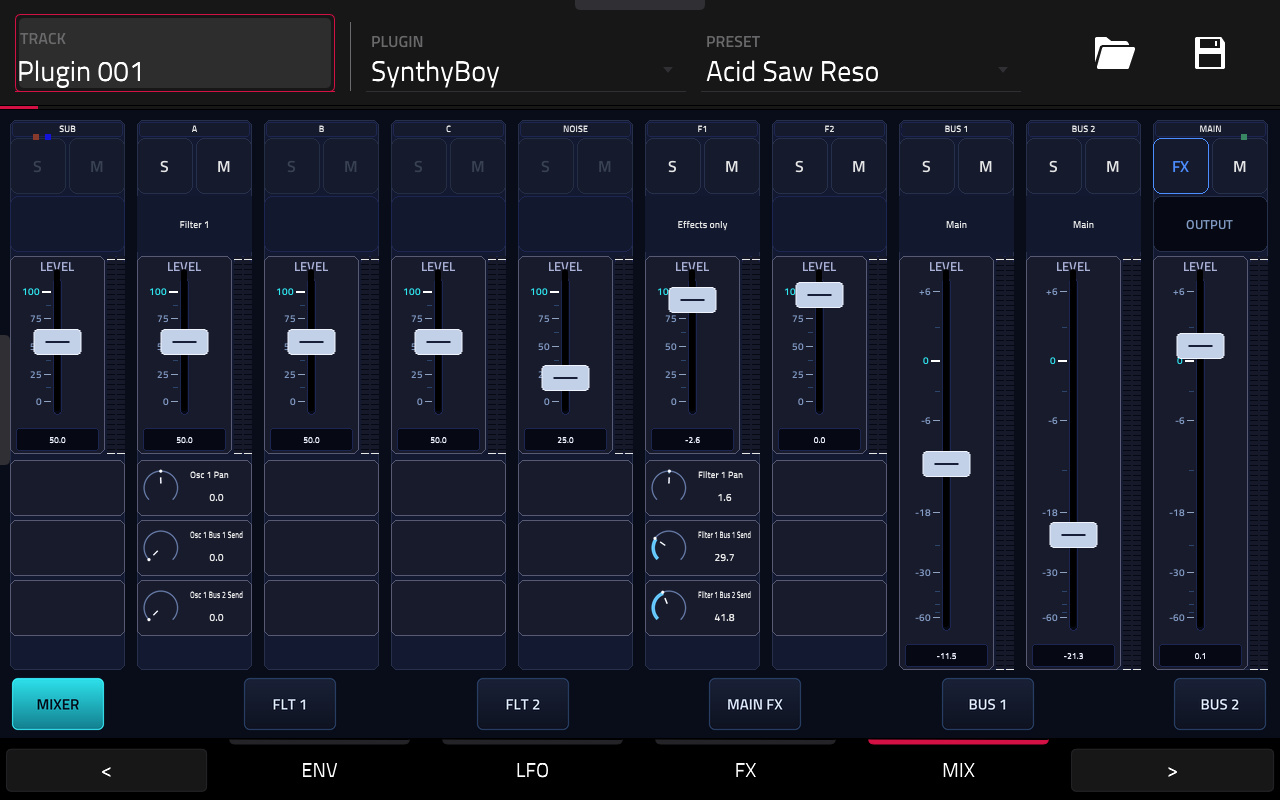
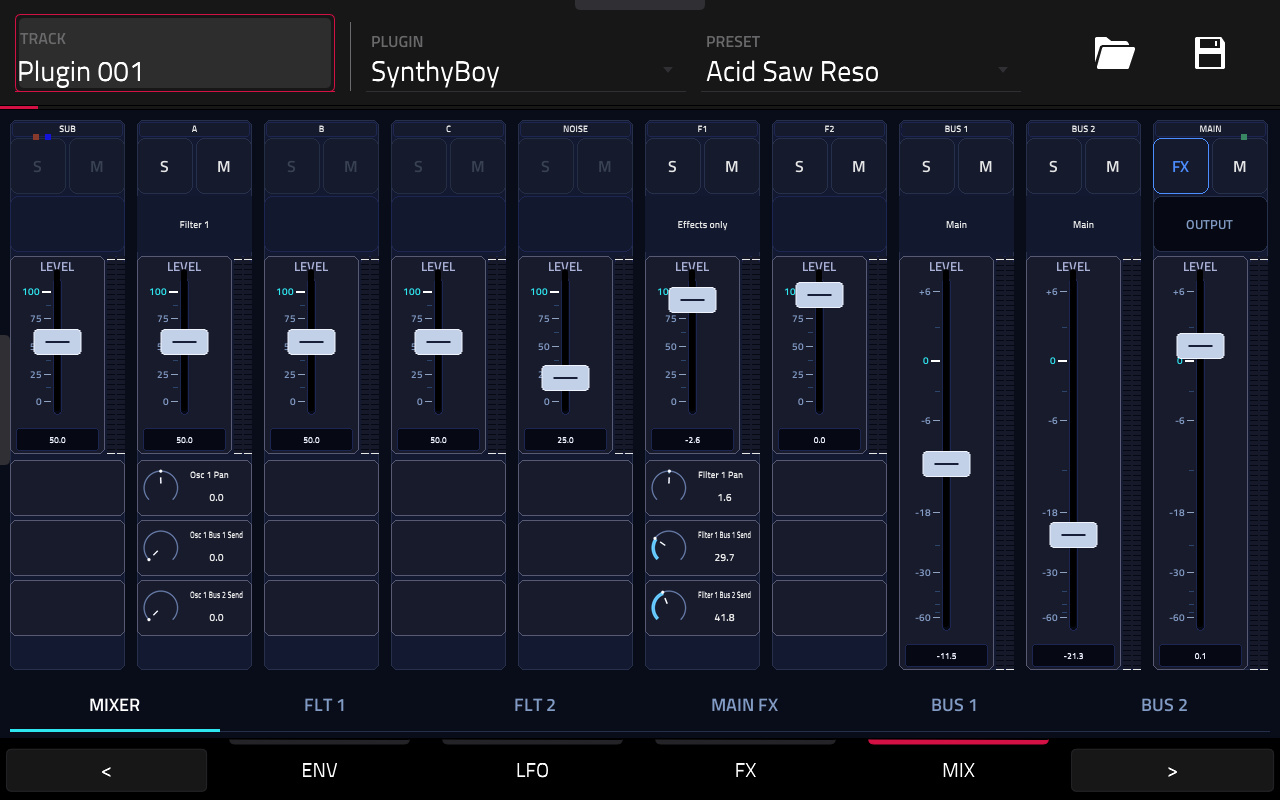
Refresh the XL Mixer photo with its tab bar

diff --git a/docs/ui-components/native-katalogus.html b/docs/ui-components/native-katalogus.html
@@ -15,7 +15,7 @@
 <section id="lfo"><h2>LFO</h2><p>MPC XL hardverfelvétel · 4fd1ab00</p><div class="pair"><figure><a href="../screens/lfo.jpg?v=6b0234b26ec8"><img src="../screens/lfo.jpg?v=6b0234b26ec8" alt="LFO · aktuális előnézet"></a><figcaption>LFO · aktuális előnézet</figcaption></figure></div></section>
 <section id="rnd"><h2>RND</h2><p>Fejlesztési előnézet · offline render, nem hardveres felvétel</p><div class="pair"><figure><a href="../screens/rnd.jpg?v=b52bc095e2c8"><img src="../screens/rnd.jpg?v=b52bc095e2c8" alt="RND · aktuális előnézet"></a><figcaption>RND · aktuális előnézet</figcaption></figure></div></section>
 <section id="fx"><h2>FX</h2><p>MPC XL hardverfelvétel · 4fd1ab00</p><div class="pair"><figure><a href="../screens/fx.jpg?v=691c5b6cf668"><img src="../screens/fx.jpg?v=691c5b6cf668" alt="FX · aktuális előnézet"></a><figcaption>FX · aktuális előnézet</figcaption></figure></div></section>
-<section id="mixer"><h2>Mixer</h2><p>MPC XL hardverfelvétel · 4fd1ab00</p><div class="pair"><figure><a href="../screens/mixer_old.jpg?v=cd315c9184ef"><img src="../screens/mixer_old.jpg?v=cd315c9184ef" alt="Mixer · rögzített régi referencia"></a><figcaption>Mixer · rögzített régi referencia</figcaption></figure><figure><a href="../screens/mixer.jpg?v=52a07bfb6463"><img src="../screens/mixer.jpg?v=52a07bfb6463" alt="Mixer · aktuális előnézet"></a><figcaption>Mixer · aktuális előnézet</figcaption></figure></div></section>
+<section id="mixer"><h2>Mixer</h2><p>MPC XL hardverfelvétel · 50e67ead</p><div class="pair"><figure><a href="../screens/mixer_old.jpg?v=cd315c9184ef"><img src="../screens/mixer_old.jpg?v=cd315c9184ef" alt="Mixer · rögzített régi referencia"></a><figcaption>Mixer · rögzített régi referencia</figcaption></figure><figure><a href="../screens/mixer.jpg?v=eb7ca2906348"><img src="../screens/mixer.jpg?v=eb7ca2906348" alt="Mixer · aktuális előnézet"></a><figcaption>Mixer · aktuális előnézet</figcaption></figure></div></section>
 <section id="filter"><h2>Filter</h2><p>MPC XL hardverfelvétel · 4fd1ab00</p><div class="pair"><figure><a href="../screens/filter_old.jpg?v=0f55a2bfbe5c"><img src="../screens/filter_old.jpg?v=0f55a2bfbe5c" alt="Filter · rögzített régi referencia"></a><figcaption>Filter · rögzített régi referencia</figcaption></figure><figure><a href="../screens/filter.jpg?v=3eb61843b871"><img src="../screens/filter.jpg?v=3eb61843b871" alt="Filter · aktuális előnézet"></a><figcaption>Filter · aktuális előnézet</figcaption></figure></div></section>
 <section id="mod"><h2>Mod</h2><p>MPC XL hardverfelvétel · 4fd1ab00</p><div class="pair"><figure><a href="../screens/mod_old.jpg?v=0e79df023a0a"><img src="../screens/mod_old.jpg?v=0e79df023a0a" alt="Mod · rögzített régi referencia"></a><figcaption>Mod · rögzített régi referencia</figcaption></figure><figure><a href="../screens/mod.jpg?v=1558ce46824e"><img src="../screens/mod.jpg?v=1558ce46824e" alt="Mod · aktuális előnézet"></a><figcaption>Mod · aktuális előnézet</figcaption></figure></div></section>
 <section id="master"><h2>Master</h2><p>MPC XL hardverfelvétel · 4fd1ab00</p><div class="pair"><figure><a href="../screens/master_old.jpg?v=dac4721df195"><img src="../screens/master_old.jpg?v=dac4721df195" alt="Master · rögzített régi referencia"></a><figcaption>Master · rögzített régi referencia</figcaption></figure><figure><a href="../screens/master.jpg?v=7e6bcd2b9782"><img src="../screens/master.jpg?v=7e6bcd2b9782" alt="Master · aktuális előnézet"></a><figcaption>Master · aktuális előnézet</figcaption></figure></div></section>
